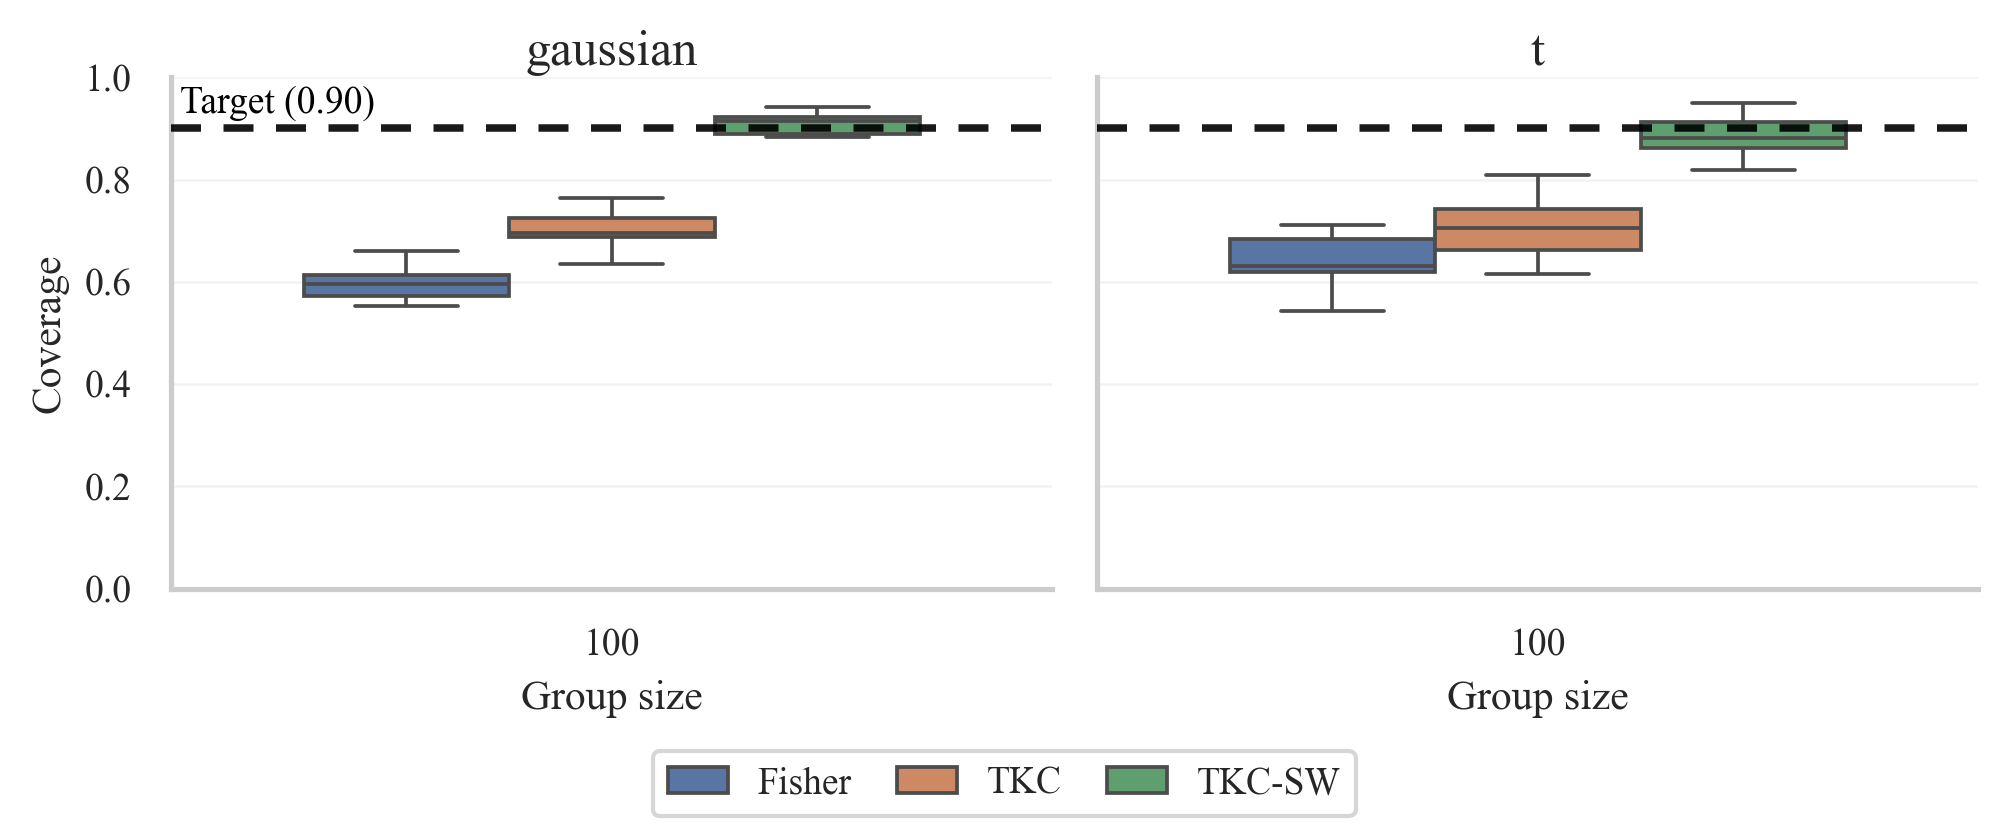
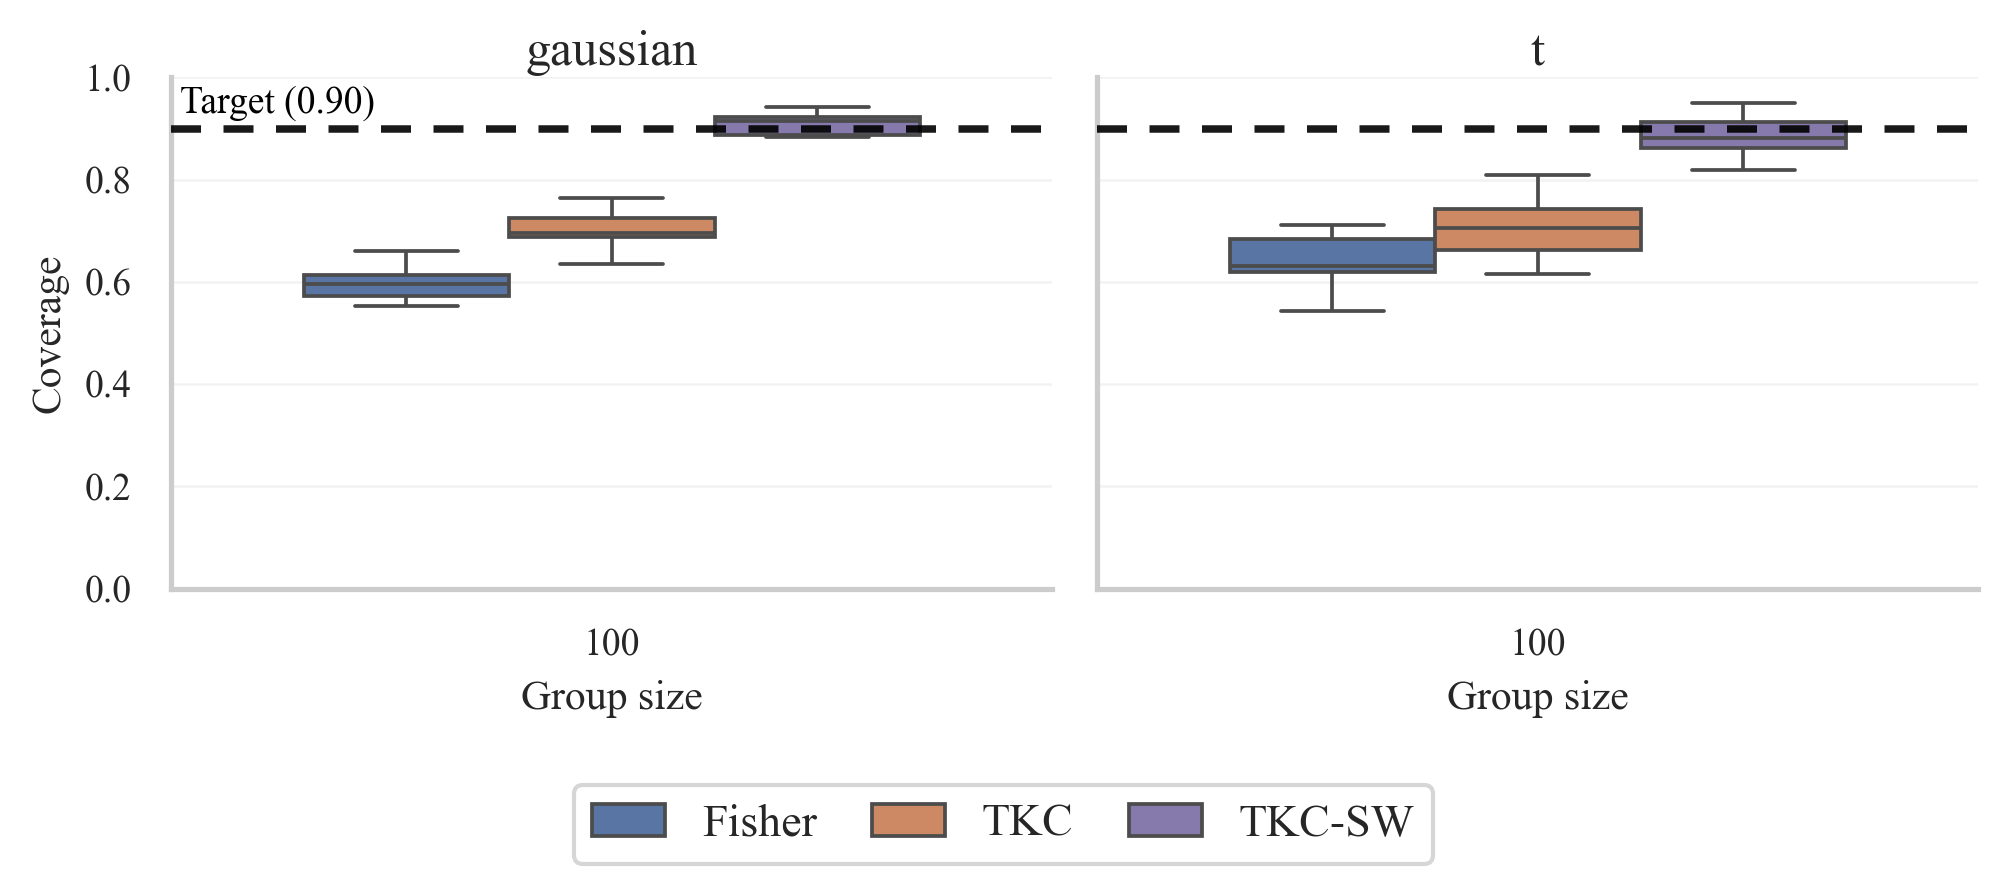
plotting fixed

diff --git a/src/lagp/utils/analyse_results.py b/src/lagp/utils/analyse_results.py
@@ -1,6 +1,7 @@
 import numpy as np
 import pandas as pd
 import matplotlib.pyplot as plt
+import matplotlib as mpl
 import seaborn as sns
 import pickle
 import os
@@ -515,6 +516,39 @@ def make_latex_table_hyperparams(config, summary_df):
     latex_table = header + "\n" + "\n".join(rows) + "\n" + footer
     return latex_table
 
+def set_style():
+    mpl.rcParams.update({
+        # Figure / export
+        "figure.dpi": 150,
+        "savefig.dpi": 300,
+        "savefig.bbox": "tight",
+        "pdf.fonttype": 42,   # editable text in Illustrator
+        "ps.fonttype": 42,
+        "svg.fonttype": "none",
+
+        # Typography
+        "font.family": "serif",
+        "font.serif": ["Times New Roman", "Times", "STIXGeneral", "DejaVu Serif"],
+        "mathtext.fontset": "stix",
+        "font.size": 10,
+        "axes.titlesize": 11,
+        "axes.labelsize": 10,
+        "xtick.labelsize": 9,
+        "ytick.labelsize": 9,
+        "legend.fontsize": 9,
+
+        # Axes look
+        "axes.spines.top": False,
+        "axes.spines.right": False,
+        "axes.grid": True,
+        "grid.alpha": 0.25,
+        "grid.linewidth": 0.6,
+        "axes.axisbelow": True,
+
+        # Lines
+        "lines.linewidth": 1.2,
+    })
+
 
 def make_plots(df, metrics, configs, OUTPUT_DIR):
     """
@@ -618,6 +652,16 @@ def make_plots_hypers(df, configs, metrics, pars, OUTPUT_DIR):
     """Make plots about hyperparameter results with improved styling"""
     
     plt.style.use('seaborn-v0_8-whitegrid')
+    set_style()
+    PALETTE = [
+    "#4C72B0",  # muted blue
+    "#DD8452",  # muted orange
+    "#55A868",  # muted green
+    "#C44E52",  # muted red
+    "#8172B3",  # muted purple
+    "#937860",  # muted brown
+    ]
+
     OUTPUT_DIR = Path(os.path.join(OUTPUT_DIR, "images"))
     OUTPUT_DIR.mkdir(parents=True, exist_ok=True)
 
@@ -645,12 +689,6 @@ def make_plots_hypers(df, configs, metrics, pars, OUTPUT_DIR):
    
     n_groups = df["n_groups"].unique()
     likelihoods = df["likelihood"].unique()
-    
-    # Extended palette for more models
-    EXTENDED_PALETTE = [
-        '#0173B2', '#DE8F05', '#CC78BC', '#029E73', '#D55E00', '#56B4E9',
-        '#1f77b4', '#ff7f0e', '#2ca02c', '#d62728', '#9467bd', '#8c564b'
-    ]
 
     for likelihood in likelihoods:
         if likelihood == "ald":
@@ -679,7 +717,7 @@ def make_plots_hypers(df, configs, metrics, pars, OUTPUT_DIR):
                 fig, ax = plt.subplots(figsize=(12, 7))  # Taller for legend below
                 
                 sns.boxplot(data=df_filtered, x="group_size", y=metric, 
-                           hue=hue_col, palette=EXTENDED_PALETTE, 
+                           hue=hue_col, palette=PALETTE, 
                            showmeans=True,
                            meanprops={
                                'marker': 'D',
@@ -691,25 +729,32 @@ def make_plots_hypers(df, configs, metrics, pars, OUTPUT_DIR):
                            ax=ax)
                 
                 # Add title with better formatting
-                title_text = f"{metric.replace('_', ' ').title()}\n"
+                title_text = "" # f"{metric.replace('_', ' ').title()}\n"
                 if crossed:
                     title_text += f"Likelihood: {likelihood}, Num. Groups: ({int(n_g)}, {n_groups_2})"
                 else:
                     title_text += f"Likelihood: {likelihood}, Num. Groups: {n_g}"
                 
-                ax.set_title(title_text, fontsize=16, pad=20)
+                ax.set_title(title_text,fontsize=20, pad=20) #
                 
                 # Add true value reference line
-                ax.axhline(y=true_variances[metric], color="red", linestyle="--", 
-                          linewidth=2, label=f"True {metric.replace('_', ' ').title()}")
-                
+                # ax.axhline(y=true_variances[metric], color="red", linestyle="--", linewidth=2, label=f"True {metric.replace('_', ' ').title()}")
+                ax.axhline(y=true_variances[metric], color="red", linestyle="--", linewidth=2, zorder=0)
+                # small label on the right, just above the line
+                ax.text(
+                    0.99, true_variances[metric], "True variance",
+                    transform=ax.get_yaxis_transform(),  # x in axes coords, y in data coords
+                    ha="right", va="bottom",
+                    color="black", fontsize=16
+                )
+
                 # Improve labels with larger fonts
-                ax.set_xlabel("Group Size", fontsize=14)
-                ax.set_ylabel(f"{metric.replace('_', ' ').title()}", fontsize=14)
-                
+                ax.set_xlabel("Group Size", fontsize=18)
+                #ax.set_ylabel(f"{metric.replace('_', ' ').title()}", fontsize=18)
+                ax.set_ylabel(f"Random effect variance", fontsize=18)
                 # Increase tick label sizes
-                ax.tick_params(axis='both', which='major', labelsize=12)
-                ax.tick_params(axis='both', which='minor', labelsize=10)
+                ax.tick_params(axis='both', which='major', labelsize=14)
+                ax.tick_params(axis='both', which='minor', labelsize=12)
                 
                 # Position legend below plot
                 handles, labels = ax.get_legend_handles_labels()
@@ -717,7 +762,7 @@ def make_plots_hypers(df, configs, metrics, pars, OUTPUT_DIR):
                         loc='upper center',
                         bbox_to_anchor=(0.5, -0.12),
                         ncol=(len(labels) + 1),   # Two rows
-                        fontsize=16,
+                        fontsize=18,
                         frameon=True)
                 #legend.get_title().set_fontweight('bold')
                 
